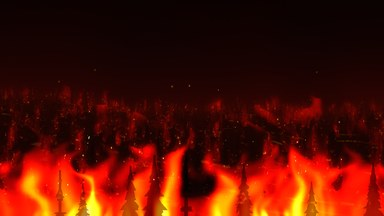
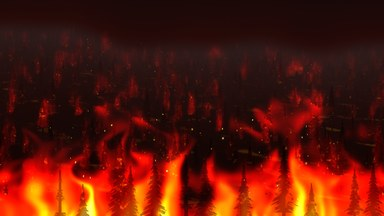
Inferno's hill rises half as high again (its ridge at 75% of the screen), a few more trees on it; the further back, the more it greys out in drifting smoke, its fires too; faint smoke rises off the flames in front. The big trees in front are drawn in detail: drooping layers of branches open between 

diff --git a/apps/desktop/renderer/app/viz/inferno.js b/apps/desktop/renderer/app/viz/inferno.js
@@ -50,14 +50,14 @@
   // the same in the shaders and for the sparks.
   const RIDGE = `
     float ridge(float x) {
-      return 0.5 + 0.03 * sin(x * 5.1 + 1.3) + 0.018 * sin(x * 11.7 + 0.4) + 0.007 * sin(x * 27.0 + 2.0);
+      return 0.75 + 0.045 * sin(x * 5.1 + 1.3) + 0.027 * sin(x * 11.7 + 0.4) + 0.01 * sin(x * 27.0 + 2.0);
     }
     // Where a row at depth d (0 front, 1 the ridge) stands: rows near the
     // front far apart on the screen, the far ones crowded under the ridge.
     float groundAt(float x, float d) {
       return ridge(x) * (1.0 - (1.0 - d) * (1.0 - d)) - 0.04 * (1.0 - d);
     }`;
-  const ridge = (x) => 0.5 + 0.03 * Math.sin(x * 5.1 + 1.3) + 0.018 * Math.sin(x * 11.7 + 0.4) + 0.007 * Math.sin(x * 27.0 + 2.0);
+  const ridge = (x) => 0.75 + 0.045 * Math.sin(x * 5.1 + 1.3) + 0.027 * Math.sin(x * 11.7 + 0.4) + 0.01 * Math.sin(x * 27.0 + 2.0);
   const groundAt = (x, d) => ridge(x) * (1 - (1 - d) * (1 - d)) - 0.04 * (1 - d);
 
   const FOREST_FS = VizGL.NOISE + RIDGE + `
@@ -67,20 +67,43 @@
     const int ROWS = ${ROWS};
     // A fir, at q in its own heights from its foot: how much of the pixel it
     // covers, and how much of that is crown. Some are dead snags, thin and
-    // with their tops broken off.
+    // with their tops broken off. The big ones near the front get their
+    // detail: drooping layers of branches with gaps between them, a ragged
+    // fringe of needles, holes burnt through, rough bark.
     vec2 tree(vec2 q, float seed, float pxu) {
       float u = q.x, v = q.y;
-      if (v < -0.1 || v > 1.05 || abs(u) > 0.32) return vec2(0.0);
+      if (v < -0.1 || v > 1.05 || abs(u) > 0.34) return vec2(0.0);
+      float au = abs(u);
+      float detail = smoothstep(0.006, 0.002, pxu);
       float dead = step(0.78, fract(seed * 7.13));
       float top = 1.0 - dead * (0.12 + 0.22 * fract(seed * 3.7));
-      float trunkW = 0.014 + 0.012 * (1.0 - v);
-      float trunk = clamp((trunkW - abs(u)) / pxu + 0.5, 0.0, 1.0) * step(v, top);
+      float trunkW = (0.014 + 0.012 * (1.0 - v)) * (1.0 + 0.3 * detail * (vnoise(vec2(v * 70.0, seed)) - 0.5));
+      float trunk = clamp((trunkW - au) / pxu + 0.5, 0.0, 1.0) * step(v, top);
       float tiers = 5.0 + floor(fract(seed * 11.3) * 4.0);
-      float saw = fract(v * tiers + seed);
+      // The branches droop: further out, the same tier lower down.
+      float droop = 0.55 * detail;
+      float saw = fract(v * tiers + au * droop * tiers + seed);
       float side = vnoise(vec2(sign(u) * 13.0 + seed * 50.0, v * 22.0));
       float hw = 0.2 * pow(max(1.0 - v / top, 0.0), 0.9) * (0.6 + 0.4 * (1.0 - saw)) * (0.72 + 0.56 * side);
       hw *= mix(1.0, 0.6 * step(0.45, vnoise(vec2(seed * 31.0, v * 14.0))), dead);
-      float crown = clamp((hw - abs(u)) / pxu + 0.5, 0.0, 1.0) * step(0.1, v);
+      float crown = 0.0;
+      if (detail > 0.0) {
+        // Needles: the edge ragged at two sizes.
+        float fringe = (vnoise(vec2(v * 150.0 + seed * 9.0, sign(u) * 5.0 + au * 40.0)) - 0.5) * 0.3
+          + (vnoise(vec2(v * 480.0, sign(u) * 3.0 + au * 120.0 + seed)) - 0.5) * 0.16;
+        hw *= 1.0 + fringe * detail;
+        crown = clamp((hw - au) / pxu + 0.5, 0.0, 1.0) * step(0.1, v);
+        // Each tier in three layers of branches, open between them out
+        // towards the tips.
+        float layer = fract(v * tiers * 3.0 + au * droop * tiers * 3.0 + seed * 2.0);
+        float out_ = smoothstep(0.35, 0.8, au / max(hw, 1e-4));
+        float gap = out_ * smoothstep(0.55, 0.85, layer) * (1.0 - smoothstep(0.92, 1.0, layer));
+        // Holes burnt through, more in the dead ones.
+        float holes = smoothstep(0.6, 0.7, fbm(q * vec2(16.0, 11.0) + seed * 3.0)) * (0.6 + 0.4 * dead);
+        crown *= 1.0 - detail * clamp(gap * 0.95 + holes * 0.85, 0.0, 1.0);
+      } else {
+        crown = clamp((hw - au) / pxu + 0.5, 0.0, 1.0) * step(0.1, v);
+      }
       return vec2(max(trunk, crown), crown);
     }
     void main() {
@@ -101,7 +124,7 @@
         for (int k = -2; k <= 2; k++) {
           float id = c + float(k);
           float h = hash12(vec2(id, fi * 7.31 + 0.5));
-          if (h > mix(0.36, 0.62, d)) continue;
+          if (h > mix(0.42, 0.7, d)) continue;
           float tx = (id + 0.15 + 0.7 * hash12(vec2(id * 1.7, fi + 3.1))) * cell;
           float big = hash12(vec2(id * 3.3, fi + 9.2));
           float th = H * (0.75 + 0.45 * big + 0.5 * pow(big, 8.0));
@@ -226,6 +249,14 @@
       float speck = smoothstep(0.55, 0.85, fbm(cp)) * (0.6 + 0.4 * vnoise(cp * 1.7 + time * 1.2));
       bark += colour(0.45 + 0.4 * speck) * speck * f.b * 0.7;
       col = mix(col, bark, cov);
+      // Smoke between here and the back of the hill: the further, the more
+      // it greys out, drifting thicker and thinner.
+      vec3 veilCol = mix(vec3(0.11, 0.105, 0.105), ember * 0.5, 0.1) * (0.55 + 0.6 * blaze + 0.9 * wide);
+      float drift = 0.65 + 0.7 * smoke;
+      float far = trees * (above < 0.0 ? depthAt(p.y, r) : 1.0 - smoothstep(0.0, 0.12, above) * 0.6);
+      far = mix(far, td, cov);
+      float veil = smoothstep(0.1, 1.0, far) * 0.8 * drift;
+      col = mix(col, veilCol, clamp(veil, 0.0, 0.9));
       // The fire, hidden where a tree stands in front of it, fainter up the hill.
       vec4 h = texture(heat, uv);
       float t = h.r;
@@ -233,10 +264,16 @@
       // A tree in front of the fire hides most of it, one burning hides
       // its own flames in part, so it stands dark among them.
       float hidden = cov * (1.0 - smoothstep(0.0, 0.3, h.g - ts)) * mix(0.75, 0.92, smoothstep(-0.1, 0.15, ts - h.g));
-      vec3 fire = colour(t) * (1.0 - 0.85 * hidden) * mix(1.0, 0.7, hd);
+      vec3 fire = colour(t) * (1.0 - 0.85 * hidden) * mix(1.0, 0.7, hd) * (1.0 - clamp(smoothstep(0.1, 1.0, hd) * 0.6 * drift * trees, 0.0, 0.85));
       // A faint glow of the fire on the air above it.
       float g = textureLod(heat, uv - vec2(0.0, 0.02), 3.0).r;
       col += fire + colour(min(g, 0.6)) * 0.25;
+      // Faint smoke rising off the flames in front, over their tips.
+      vec2 fp = vec2(p.x * aspect * 2.2 + time * 0.03, p.y * 3.0 - time * 0.22);
+      float plume = smoothstep(0.45, 0.8, fbm(fp + 0.8 * vec2(vnoise(fp * 0.6 + time * 0.1), 0.0)));
+      float fed = smoothstep(0.05, 0.45, textureLod(heat, vec2(p.x, max(p.y - 0.1, 0.0)), 5.0).r);
+      vec3 fume = vec3(0.06, 0.055, 0.055) + ember * 0.3 * wide;
+      col = mix(col, fume, plume * fed * 0.4);
       col += (hash12(gl_FragCoord.xy + time) - 0.5) / 255.0;
       o = vec4(col, 1.0);
     }`;
